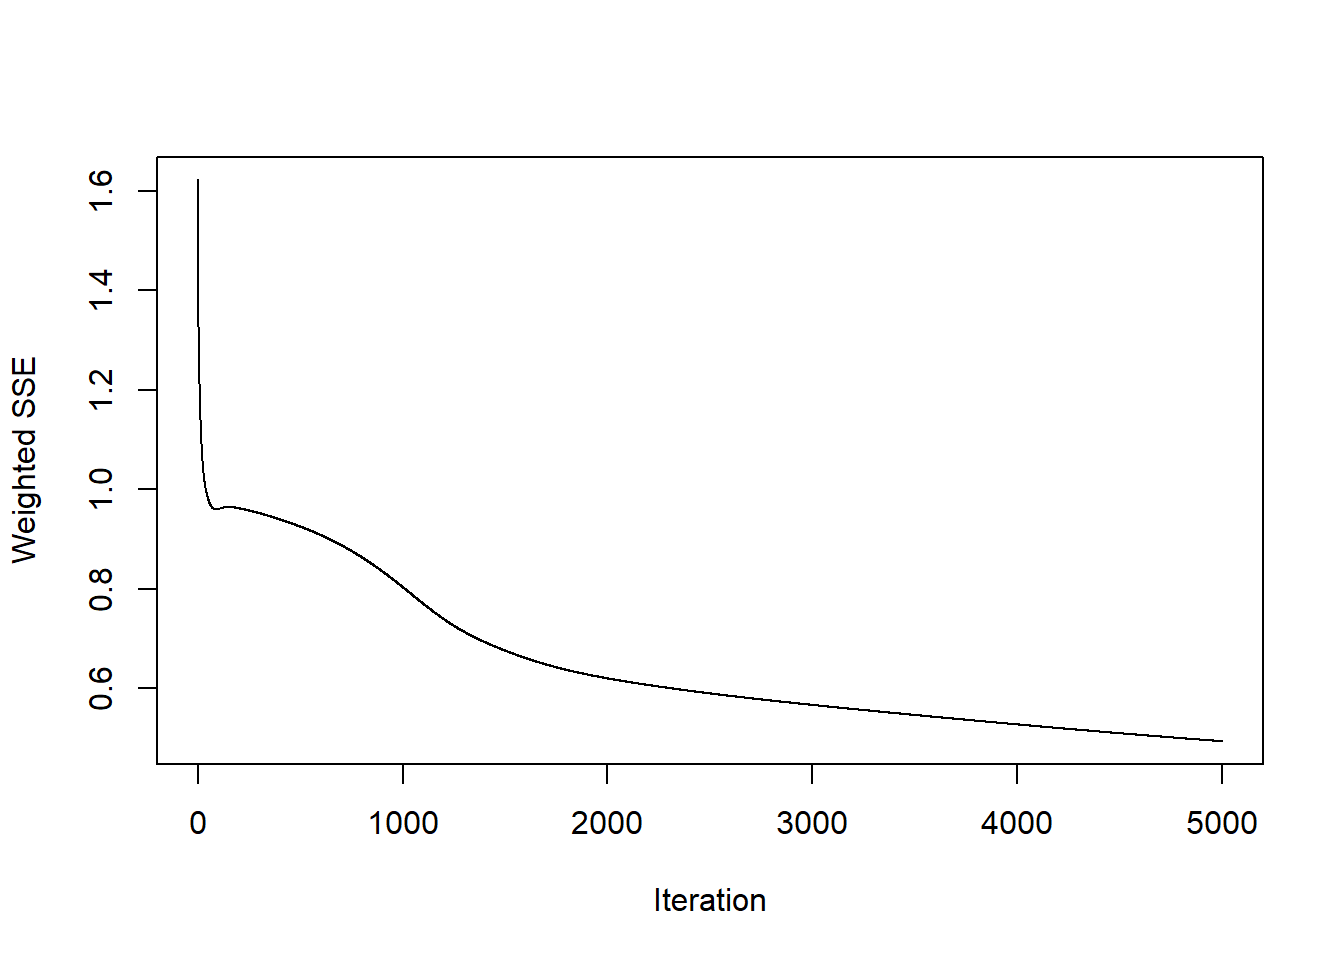
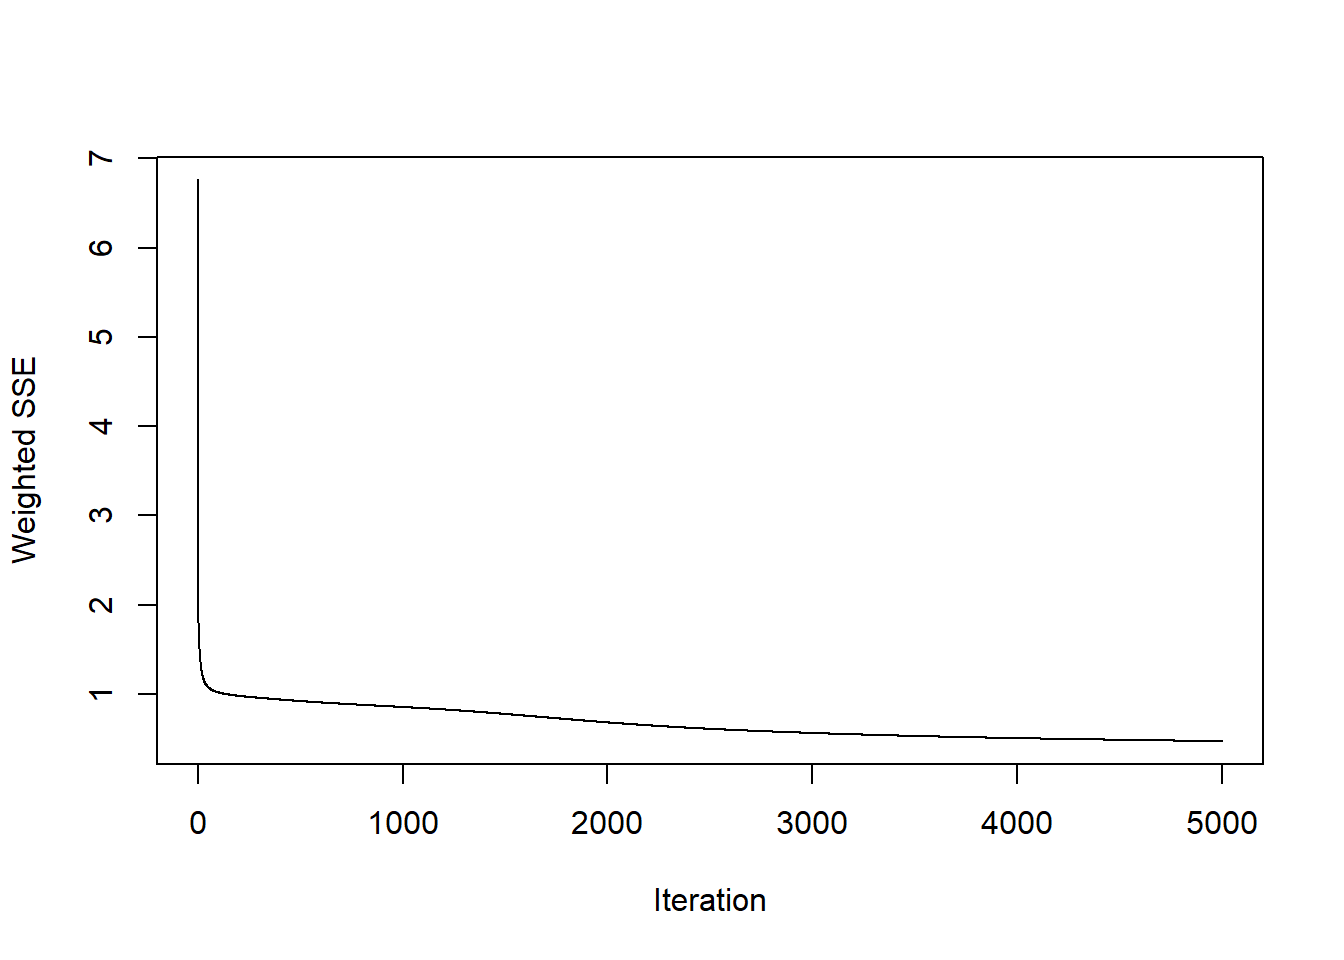
Nueva Version 6

diff --git a/_book/creacion-y-exproracion-de-serie-de-tiempo.html b/_book/creacion-y-exproracion-de-serie-de-tiempo.html
@@ -247,8 +247,8 @@ code span.wa { color: #60a0b0; font-weight: bold; font-style: italic; } /* Warni
 </ul>
 <div id="visualizacion-de-ts" class="section level3 hasAnchor" number="3.0.1">
 <h3><span class="header-section-number">3.0.1</span> - <em>Visualizacion de TS</em><a href="creacion-y-exproracion-de-serie-de-tiempo.html#visualizacion-de-ts" class="anchor-section" aria-label="Anchor link to header"></a></h3>
-<div class="plotly html-widget html-fill-item" id="htmlwidget-f876f4dc233461f11e47" style="width:672px;height:480px;"></div>
-<script type="application/json" data-for="htmlwidget-f876f4dc233461f11e47">{"x":{"visdat":{"5d5865641514":["function () ","plotlyVisDat"]},"cur_data":"5d5865641514","attrs":{"5d5865641514":{"x":[2010,2010.0833333333333,2010.1666666666667,2010.25,2010.3333333333333,2010.4166666666667,2010.5,2010.5833333333333,2010.6666666666667,2010.75,2010.8333333333333,2010.9166666666667,2011,2011.0833333333333,2011.1666666666667,2011.25,2011.3333333333333,2011.4166666666667,2011.5,2011.5833333333333,2011.6666666666667,2011.75,2011.8333333333333,2011.9166666666667,2012,2012.0833333333333,2012.1666666666667,2012.25,2012.3333333333333,2012.4166666666667,2012.5,2012.5833333333333,2012.6666666666667,2012.75,2012.8333333333333,2012.9166666666667,2013,2013.0833333333333,2013.1666666666667,2013.25,2013.3333333333333,2013.4166666666667,2013.5,2013.5833333333333,2013.6666666666667,2013.75,2013.8333333333333,2013.9166666666667,2014,2014.0833333333333,2014.1666666666667,2014.25,2014.3333333333333,2014.4166666666667,2014.5,2014.5833333333333,2014.6666666666667,2014.75,2014.8333333333333,2014.9166666666667,2015,2015.0833333333333,2015.1666666666667,2015.25,2015.3333333333333,2015.4166666666667,2015.5,2015.5833333333333,2015.6666666666667,2015.75,2015.8333333333333,2015.9166666666667,2016,2016.0833333333333,2016.1666666666667,2016.25,2016.3333333333333,2016.4166666666667,2016.5,2016.5833333333333,2016.6666666666667,2016.75,2016.8333333333333,2016.9166666666667,2017,2017.0833333333333,2017.1666666666667,2017.25,2017.3333333333333,2017.4166666666667,2017.5,2017.5833333333333,2017.6666666666667,2017.75,2017.8333333333333,2017.9166666666667,2018,2018.0833333333333,2018.1666666666667,2018.25,2018.3333333333333,2018.4166666666667,2018.5,2018.5833333333333,2018.6666666666667,2018.75,2018.8333333333333,2018.9166666666667,2019,2019.0833333333333,2019.1666666666667,2019.25,2019.3333333333333,2019.4166666666667,2019.5,2019.5833333333333,2019.6666666666667,2019.75,2019.8333333333333,2019.9166666666667,2020,2020.0833333333333,2020.1666666666667,2020.25,2020.3333333333333,2020.4166666666667,2020.5,2020.5833333333333,2020.6666666666667,2020.75,2020.8333333333333,2020.9166666666667,2021,2021.0833333333333,2021.1666666666667,2021.25,2021.3333333333333,2021.4166666666667,2021.5,2021.5833333333333,2021.6666666666667,2021.75,2021.8333333333333,2021.9166666666667,2022,2022.0833333333333,2022.1666666666667,2022.25,2022.3333333333333,2022.4166666666667,2022.5,2022.5833333333333,2022.6666666666667,2022.75,2022.8333333333333,2022.9166666666667,2023,2023.0833333333333,2023.1666666666667,2023.25,2023.3333333333333,2023.4166666666667,2023.5,2023.5833333333333,2023.6666666666667,2023.75,2023.8333333333333,2023.9166666666667,2024],"y":[411,392,353,389,319,397,367,369,365,423,365,350,405,334,346,402,378,353,348,364,320,361,345,339,366,386,363,439,370,385,404,384,377,365,356,354,446,384,417,430,334,460,416,430,421,429,358,397,366,440,437,482,352,417,369,339,369,397,449,418,420,483,475,526,402,452,399,468,451,415,419,434,504,483,454,495,442,472,413,469,472,465,470,470,496,448,411,487,434,425,401,424,450,460,441,384,513,491,445,640,511,523,437,484,519,495,448,511,439,547,531,653,436,477,468,471,550,518,513,450,503,572,526,578,473,408,174,286,305,361,418,464,514,622,560,558,542,537,544,508,608,646,611,664,675,670,558,748,526,645,609,614,570,695,546,614,1131,675,711,679,1163,1130,1262,1177,1208,1264,576,628,630],"mode":"lines","line":{"color":"blue","width":2},"alpha_stroke":1,"sizes":[10,100],"spans":[1,20],"type":"scatter"}},"layout":{"margin":{"b":100,"l":100,"t":100,"r":100},"title":{"text":"Homicidios por mes en Colombia (2010 - 2024)","x":0.5},"xaxis":{"domain":[0,1],"automargin":true,"title":"Meses"},"yaxis":{"domain":[0,1],"automargin":true,"title":"Homicidios"},"hovermode":"closest","showlegend":false},"source":"A","config":{"modeBarButtonsToAdd":["hoverclosest","hovercompare"],"showSendToCloud":false},"data":[{"x":[2010,2010.0833333333333,2010.1666666666667,2010.25,2010.3333333333333,2010.4166666666667,2010.5,2010.5833333333333,2010.6666666666667,2010.75,2010.8333333333333,2010.9166666666667,2011,2011.0833333333333,2011.1666666666667,2011.25,2011.3333333333333,2011.4166666666667,2011.5,2011.5833333333333,2011.6666666666667,2011.75,2011.8333333333333,2011.9166666666667,2012,2012.0833333333333,2012.1666666666667,2012.25,2012.3333333333333,2012.4166666666667,2012.5,2012.5833333333333,2012.6666666666667,2012.75,2012.8333333333333,2012.9166666666667,2013,2013.0833333333333,2013.1666666666667,2013.25,2013.3333333333333,2013.4166666666667,2013.5,2013.5833333333333,2013.6666666666667,2013.75,2013.8333333333333,2013.9166666666667,2014,2014.0833333333333,2014.1666666666667,2014.25,2014.3333333333333,2014.4166666666667,2014.5,2014.5833333333333,2014.6666666666667,2014.75,2014.8333333333333,2014.9166666666667,2015,2015.0833333333333,2015.1666666666667,2015.25,2015.3333333333333,2015.4166666666667,2015.5,2015.5833333333333,2015.6666666666667,2015.75,2015.8333333333333,2015.9166666666667,2016,2016.0833333333333,2016.1666666666667,2016.25,2016.3333333333333,2016.4166666666667,2016.5,2016.5833333333333,2016.6666666666667,2016.75,2016.8333333333333,2016.9166666666667,2017,2017.0833333333333,2017.1666666666667,2017.25,2017.3333333333333,2017.4166666666667,2017.5,2017.5833333333333,2017.6666666666667,2017.75,2017.8333333333333,2017.9166666666667,2018,2018.0833333333333,2018.1666666666667,2018.25,2018.3333333333333,2018.4166666666667,2018.5,2018.5833333333333,2018.6666666666667,2018.75,2018.8333333333333,2018.9166666666667,2019,2019.0833333333333,2019.1666666666667,2019.25,2019.3333333333333,2019.4166666666667,2019.5,2019.5833333333333,2019.6666666666667,2019.75,2019.8333333333333,2019.9166666666667,2020,2020.0833333333333,2020.1666666666667,2020.25,2020.3333333333333,2020.4166666666667,2020.5,2020.5833333333333,2020.6666666666667,2020.75,2020.8333333333333,2020.9166666666667,2021,2021.0833333333333,2021.1666666666667,2021.25,2021.3333333333333,2021.4166666666667,2021.5,2021.5833333333333,2021.6666666666667,2021.75,2021.8333333333333,2021.9166666666667,2022,2022.0833333333333,2022.1666666666667,2022.25,2022.3333333333333,2022.4166666666667,2022.5,2022.5833333333333,2022.6666666666667,2022.75,2022.8333333333333,2022.9166666666667,2023,2023.0833333333333,2023.1666666666667,2023.25,2023.3333333333333,2023.4166666666667,2023.5,2023.5833333333333,2023.6666666666667,2023.75,2023.8333333333333,2023.9166666666667,2024],"y":[411,392,353,389,319,397,367,369,365,423,365,350,405,334,346,402,378,353,348,364,320,361,345,339,366,386,363,439,370,385,404,384,377,365,356,354,446,384,417,430,334,460,416,430,421,429,358,397,366,440,437,482,352,417,369,339,369,397,449,418,420,483,475,526,402,452,399,468,451,415,419,434,504,483,454,495,442,472,413,469,472,465,470,470,496,448,411,487,434,425,401,424,450,460,441,384,513,491,445,640,511,523,437,484,519,495,448,511,439,547,531,653,436,477,468,471,550,518,513,450,503,572,526,578,473,408,174,286,305,361,418,464,514,622,560,558,542,537,544,508,608,646,611,664,675,670,558,748,526,645,609,614,570,695,546,614,1131,675,711,679,1163,1130,1262,1177,1208,1264,576,628,630],"mode":"lines","line":{"color":"blue","width":2},"type":"scatter","marker":{"color":"rgba(31,119,180,1)","line":{"color":"rgba(31,119,180,1)"}},"error_y":{"color":"rgba(31,119,180,1)"},"error_x":{"color":"rgba(31,119,180,1)"},"xaxis":"x","yaxis":"y","frame":null}],"highlight":{"on":"plotly_click","persistent":false,"dynamic":false,"selectize":false,"opacityDim":0.20000000000000001,"selected":{"opacity":1},"debounce":0},"shinyEvents":["plotly_hover","plotly_click","plotly_selected","plotly_relayout","plotly_brushed","plotly_brushing","plotly_clickannotation","plotly_doubleclick","plotly_deselect","plotly_afterplot","plotly_sunburstclick"],"base_url":"https://plot.ly"},"evals":[],"jsHooks":[]}</script>
+<div class="plotly html-widget html-fill-item" id="htmlwidget-a6dad62fd77adb170754" style="width:672px;height:480px;"></div>
+<script type="application/json" data-for="htmlwidget-a6dad62fd77adb170754">{"x":{"visdat":{"6958616c4e07":["function () ","plotlyVisDat"]},"cur_data":"6958616c4e07","attrs":{"6958616c4e07":{"x":[2010,2010.0833333333333,2010.1666666666667,2010.25,2010.3333333333333,2010.4166666666667,2010.5,2010.5833333333333,2010.6666666666667,2010.75,2010.8333333333333,2010.9166666666667,2011,2011.0833333333333,2011.1666666666667,2011.25,2011.3333333333333,2011.4166666666667,2011.5,2011.5833333333333,2011.6666666666667,2011.75,2011.8333333333333,2011.9166666666667,2012,2012.0833333333333,2012.1666666666667,2012.25,2012.3333333333333,2012.4166666666667,2012.5,2012.5833333333333,2012.6666666666667,2012.75,2012.8333333333333,2012.9166666666667,2013,2013.0833333333333,2013.1666666666667,2013.25,2013.3333333333333,2013.4166666666667,2013.5,2013.5833333333333,2013.6666666666667,2013.75,2013.8333333333333,2013.9166666666667,2014,2014.0833333333333,2014.1666666666667,2014.25,2014.3333333333333,2014.4166666666667,2014.5,2014.5833333333333,2014.6666666666667,2014.75,2014.8333333333333,2014.9166666666667,2015,2015.0833333333333,2015.1666666666667,2015.25,2015.3333333333333,2015.4166666666667,2015.5,2015.5833333333333,2015.6666666666667,2015.75,2015.8333333333333,2015.9166666666667,2016,2016.0833333333333,2016.1666666666667,2016.25,2016.3333333333333,2016.4166666666667,2016.5,2016.5833333333333,2016.6666666666667,2016.75,2016.8333333333333,2016.9166666666667,2017,2017.0833333333333,2017.1666666666667,2017.25,2017.3333333333333,2017.4166666666667,2017.5,2017.5833333333333,2017.6666666666667,2017.75,2017.8333333333333,2017.9166666666667,2018,2018.0833333333333,2018.1666666666667,2018.25,2018.3333333333333,2018.4166666666667,2018.5,2018.5833333333333,2018.6666666666667,2018.75,2018.8333333333333,2018.9166666666667,2019,2019.0833333333333,2019.1666666666667,2019.25,2019.3333333333333,2019.4166666666667,2019.5,2019.5833333333333,2019.6666666666667,2019.75,2019.8333333333333,2019.9166666666667,2020,2020.0833333333333,2020.1666666666667,2020.25,2020.3333333333333,2020.4166666666667,2020.5,2020.5833333333333,2020.6666666666667,2020.75,2020.8333333333333,2020.9166666666667,2021,2021.0833333333333,2021.1666666666667,2021.25,2021.3333333333333,2021.4166666666667,2021.5,2021.5833333333333,2021.6666666666667,2021.75,2021.8333333333333,2021.9166666666667,2022,2022.0833333333333,2022.1666666666667,2022.25,2022.3333333333333,2022.4166666666667,2022.5,2022.5833333333333,2022.6666666666667,2022.75,2022.8333333333333,2022.9166666666667,2023,2023.0833333333333,2023.1666666666667,2023.25,2023.3333333333333,2023.4166666666667,2023.5,2023.5833333333333,2023.6666666666667,2023.75,2023.8333333333333,2023.9166666666667,2024],"y":[411,392,353,389,319,397,367,369,365,423,365,350,405,334,346,402,378,353,348,364,320,361,345,339,366,386,363,439,370,385,404,384,377,365,356,354,446,384,417,430,334,460,416,430,421,429,358,397,366,440,437,482,352,417,369,339,369,397,449,418,420,483,475,526,402,452,399,468,451,415,419,434,504,483,454,495,442,472,413,469,472,465,470,470,496,448,411,487,434,425,401,424,450,460,441,384,513,491,445,640,511,523,437,484,519,495,448,511,439,547,531,653,436,477,468,471,550,518,513,450,503,572,526,578,473,408,174,286,305,361,418,464,514,622,560,558,542,537,544,508,608,646,611,664,675,670,558,748,526,645,609,614,570,695,546,614,1131,675,711,679,1163,1130,1262,1177,1208,1264,576,628,630],"mode":"lines","line":{"color":"blue","width":2},"alpha_stroke":1,"sizes":[10,100],"spans":[1,20],"type":"scatter"}},"layout":{"margin":{"b":100,"l":100,"t":100,"r":100},"title":{"text":"Homicidios por mes en Colombia (2010 - 2024)","x":0.5},"xaxis":{"domain":[0,1],"automargin":true,"title":"Meses"},"yaxis":{"domain":[0,1],"automargin":true,"title":"Homicidios"},"hovermode":"closest","showlegend":false},"source":"A","config":{"modeBarButtonsToAdd":["hoverclosest","hovercompare"],"showSendToCloud":false},"data":[{"x":[2010,2010.0833333333333,2010.1666666666667,2010.25,2010.3333333333333,2010.4166666666667,2010.5,2010.5833333333333,2010.6666666666667,2010.75,2010.8333333333333,2010.9166666666667,2011,2011.0833333333333,2011.1666666666667,2011.25,2011.3333333333333,2011.4166666666667,2011.5,2011.5833333333333,2011.6666666666667,2011.75,2011.8333333333333,2011.9166666666667,2012,2012.0833333333333,2012.1666666666667,2012.25,2012.3333333333333,2012.4166666666667,2012.5,2012.5833333333333,2012.6666666666667,2012.75,2012.8333333333333,2012.9166666666667,2013,2013.0833333333333,2013.1666666666667,2013.25,2013.3333333333333,2013.4166666666667,2013.5,2013.5833333333333,2013.6666666666667,2013.75,2013.8333333333333,2013.9166666666667,2014,2014.0833333333333,2014.1666666666667,2014.25,2014.3333333333333,2014.4166666666667,2014.5,2014.5833333333333,2014.6666666666667,2014.75,2014.8333333333333,2014.9166666666667,2015,2015.0833333333333,2015.1666666666667,2015.25,2015.3333333333333,2015.4166666666667,2015.5,2015.5833333333333,2015.6666666666667,2015.75,2015.8333333333333,2015.9166666666667,2016,2016.0833333333333,2016.1666666666667,2016.25,2016.3333333333333,2016.4166666666667,2016.5,2016.5833333333333,2016.6666666666667,2016.75,2016.8333333333333,2016.9166666666667,2017,2017.0833333333333,2017.1666666666667,2017.25,2017.3333333333333,2017.4166666666667,2017.5,2017.5833333333333,2017.6666666666667,2017.75,2017.8333333333333,2017.9166666666667,2018,2018.0833333333333,2018.1666666666667,2018.25,2018.3333333333333,2018.4166666666667,2018.5,2018.5833333333333,2018.6666666666667,2018.75,2018.8333333333333,2018.9166666666667,2019,2019.0833333333333,2019.1666666666667,2019.25,2019.3333333333333,2019.4166666666667,2019.5,2019.5833333333333,2019.6666666666667,2019.75,2019.8333333333333,2019.9166666666667,2020,2020.0833333333333,2020.1666666666667,2020.25,2020.3333333333333,2020.4166666666667,2020.5,2020.5833333333333,2020.6666666666667,2020.75,2020.8333333333333,2020.9166666666667,2021,2021.0833333333333,2021.1666666666667,2021.25,2021.3333333333333,2021.4166666666667,2021.5,2021.5833333333333,2021.6666666666667,2021.75,2021.8333333333333,2021.9166666666667,2022,2022.0833333333333,2022.1666666666667,2022.25,2022.3333333333333,2022.4166666666667,2022.5,2022.5833333333333,2022.6666666666667,2022.75,2022.8333333333333,2022.9166666666667,2023,2023.0833333333333,2023.1666666666667,2023.25,2023.3333333333333,2023.4166666666667,2023.5,2023.5833333333333,2023.6666666666667,2023.75,2023.8333333333333,2023.9166666666667,2024],"y":[411,392,353,389,319,397,367,369,365,423,365,350,405,334,346,402,378,353,348,364,320,361,345,339,366,386,363,439,370,385,404,384,377,365,356,354,446,384,417,430,334,460,416,430,421,429,358,397,366,440,437,482,352,417,369,339,369,397,449,418,420,483,475,526,402,452,399,468,451,415,419,434,504,483,454,495,442,472,413,469,472,465,470,470,496,448,411,487,434,425,401,424,450,460,441,384,513,491,445,640,511,523,437,484,519,495,448,511,439,547,531,653,436,477,468,471,550,518,513,450,503,572,526,578,473,408,174,286,305,361,418,464,514,622,560,558,542,537,544,508,608,646,611,664,675,670,558,748,526,645,609,614,570,695,546,614,1131,675,711,679,1163,1130,1262,1177,1208,1264,576,628,630],"mode":"lines","line":{"color":"blue","width":2},"type":"scatter","marker":{"color":"rgba(31,119,180,1)","line":{"color":"rgba(31,119,180,1)"}},"error_y":{"color":"rgba(31,119,180,1)"},"error_x":{"color":"rgba(31,119,180,1)"},"xaxis":"x","yaxis":"y","frame":null}],"highlight":{"on":"plotly_click","persistent":false,"dynamic":false,"selectize":false,"opacityDim":0.20000000000000001,"selected":{"opacity":1},"debounce":0},"shinyEvents":["plotly_hover","plotly_click","plotly_selected","plotly_relayout","plotly_brushed","plotly_brushing","plotly_clickannotation","plotly_doubleclick","plotly_deselect","plotly_afterplot","plotly_sunburstclick"],"base_url":"https://plot.ly"},"evals":[],"jsHooks":[]}</script>
 <p>En el grafico anterior se observa que la seria presenta una leve tendencia de <strong>2010</strong> a <strong>2020</strong>, a ´partir de este punto se evidencia un notable cambio debido a la aparicion de la pandemia y el confinamiento que sufrio la poblacion a partir del año <strong>2021</strong> se observa que el comportamiento de homicidios en colombia adquiere un incremento mas marcado con una tendencia casi exponencial, este comportamiento podria deberse a los cambios a nivel de estrategias de seguridad implementadas con el nuevo gobierno.</p>
 </div>
 <div id="analisis-por-ciclos" class="section level3 hasAnchor" number="3.0.2">

diff --git a/_book/404.html b/_book/404.html
@@ -23,7 +23,7 @@
 <meta name="author" content="Andrés Barrios | Jesus Gallardo | Luis Tafur" />
 
 
-<meta name="date" content="2024-06-23" />
+<meta name="date" content="2024-06-24" />
 
   <meta name="viewport" content="width=device-width, initial-scale=1" />
   <meta name="apple-mobile-web-app-capable" content="yes" />
@@ -197,11 +197,20 @@ code span.wa { color: #60a0b0; font-weight: bold; font-style: italic; } /* Warni
 <li class="chapter" data-level="5.3.8" data-path="aplicacion-de-modelos.html"><a href="aplicacion-de-modelos.html#valores-originales"><i class="fa fa-check"></i><b>5.3.8</b> - Valores Originales</a></li>
 <li class="chapter" data-level="5.3.9" data-path="aplicacion-de-modelos.html"><a href="aplicacion-de-modelos.html#estimacion-de-metricas-de-modelo"><i class="fa fa-check"></i><b>5.3.9</b> - Estimacion de Metricas de Modelo</a></li>
 </ul></li>
-<li class="chapter" data-level="5.4" data-path="aplicacion-de-modelos.html"><a href="aplicacion-de-modelos.html#redes-neuronales-elman-y-jordan"><i class="fa fa-check"></i><b>5.4</b> Redes Neuronales ELMAN y JORDAN</a>
-<ul>
-<li class="chapter" data-level="5.4.1" data-path="aplicacion-de-modelos.html"><a href="aplicacion-de-modelos.html#entrenamiento-del-modelo"><i class="fa fa-check"></i><b>5.4.1</b> - Entrenamiento del Modelo</a></li>
 </ul></li>
-<li class="chapter" data-level="5.5" data-path="aplicacion-de-modelos.html"><a href="aplicacion-de-modelos.html#implementacion-modelo-de-jordan"><i class="fa fa-check"></i><b>5.5</b> Implementacion Modelo de Jordan</a></li>
+<li class="chapter" data-level="6" data-path="redes-neuronales-elman-y-jordan.html"><a href="redes-neuronales-elman-y-jordan.html"><i class="fa fa-check"></i><b>6</b> Redes Neuronales ELMAN y JORDAN</a>
+<ul>
+<li class="chapter" data-level="6.1" data-path="redes-neuronales-elman-y-jordan.html"><a href="redes-neuronales-elman-y-jordan.html#implementacion-modelo-elman"><i class="fa fa-check"></i><b>6.1</b> Implementacion Modelo Elman</a>
+<ul>
+<li class="chapter" data-level="6.1.1" data-path="redes-neuronales-elman-y-jordan.html"><a href="redes-neuronales-elman-y-jordan.html#entrenamiento-del-modelo"><i class="fa fa-check"></i><b>6.1.1</b> - Entrenamiento del Modelo</a></li>
+<li class="chapter" data-level="6.1.2" data-path="redes-neuronales-elman-y-jordan.html"><a href="redes-neuronales-elman-y-jordan.html#evolucion-de-error-elman"><i class="fa fa-check"></i><b>6.1.2</b> - Evolucion de Error Elman</a></li>
+<li class="chapter" data-level="6.1.3" data-path="redes-neuronales-elman-y-jordan.html"><a href="redes-neuronales-elman-y-jordan.html#metricas-modelo-elman"><i class="fa fa-check"></i><b>6.1.3</b> - Metricas Modelo Elman</a></li>
+</ul></li>
+<li class="chapter" data-level="6.2" data-path="redes-neuronales-elman-y-jordan.html"><a href="redes-neuronales-elman-y-jordan.html#implementacion-modelo-de-jordan"><i class="fa fa-check"></i><b>6.2</b> Implementacion Modelo de Jordan</a>
+<ul>
+<li class="chapter" data-level="6.2.1" data-path="redes-neuronales-elman-y-jordan.html"><a href="redes-neuronales-elman-y-jordan.html#evolucion-de-errores-jordan"><i class="fa fa-check"></i><b>6.2.1</b> - Evolucion de Errores Jordan</a></li>
+<li class="chapter" data-level="6.2.2" data-path="redes-neuronales-elman-y-jordan.html"><a href="redes-neuronales-elman-y-jordan.html#metricas-modelo-jordan"><i class="fa fa-check"></i><b>6.2.2</b> - Metricas Modelo Jordan</a></li>
+</ul></li>
 </ul></li>
 </ul>
 

diff --git a/_book/redes-neuronales-elman-y-jordan.html b/_book/redes-neuronales-elman-y-jordan.html
@@ -256,7 +256,7 @@ code span.wa { color: #60a0b0; font-weight: bold; font-style: italic; } /* Warni
 ## 1 Holt-Winters  346.  482.  346.  56.2   56.2  2.09  1.56 0.478
 ## 2 ARIMA         252.  406.  318.  44.0   49.3  1.92  1.31 0.480
 ## 3 Prophet      -119.  349.  327.  -1.27  35.4  1.97  1.13 0.463
-## 4 Elman        2359. 2680. 2359. 332.   332.  14.2   8.65 0.484</code></pre>
+## 4 Elman         755. 1330. 1162. 126.   160.   7.01  4.29 0.478</code></pre>
 </div>
 </div>
 <div id="implementacion-modelo-de-jordan" class="section level2 hasAnchor" number="6.2">
@@ -295,8 +295,8 @@ code span.wa { color: #60a0b0; font-weight: bold; font-style: italic; } /* Warni
 ## 1 Holt-Winters  346.  482.  346.  56.2   56.2  2.09  1.56 0.478
 ## 2 ARIMA         252.  406.  318.  44.0   49.3  1.92  1.31 0.480
 ## 3 Prophet      -119.  349.  327.  -1.27  35.4  1.97  1.13 0.463
-## 4 Elman        2359. 2680. 2359. 332.   332.  14.2   8.65 0.484
-## 5 Jordan        550.  799.  715.  84.0   97.9  4.31  2.58 0.460</code></pre>
+## 4 Elman         755. 1330. 1162. 126.   160.   7.01  4.29 0.478
+## 5 Jordan        601.  828.  699.  88.6   96.9  4.22  2.67 0.347</code></pre>
 <p>De todos los modelos implementados, el que arrojó mejores resultados considerando las métricas de evaluación obtenidas para la predicción de los últimos 6 meses fue el modelo Prophet, esto considerando todas las métricas en general, pero especificamente con el RMSE que da una métrica en la escala original de los datos. </p>
 <p>De los modelos de redes neuronales el que mostró mejor comportamiento fue el modelo Elman, el cual tuvo un RMSE inferior al modelo de Jordan, pero superior al de los otros modelos. Esto indica que las redes neuronales no pudieron predecir de manera correcta la componenete de estacionalidad de la serie de tiempo.
 Como conclusión final, se considera que la escogencia del modelo para realizar predicciones en una serie de tiempo debe considerar las características propias de la serie, como son su tendencia, pero en especial su estacionalidad. En el ejercicio de escogencia se recomienda utilizar diferentes periodos de entrenamiento y evaluación, así como modificar las variables de ajsute de los modelos según las características de los componentes de la serie de tiempo”</p>
